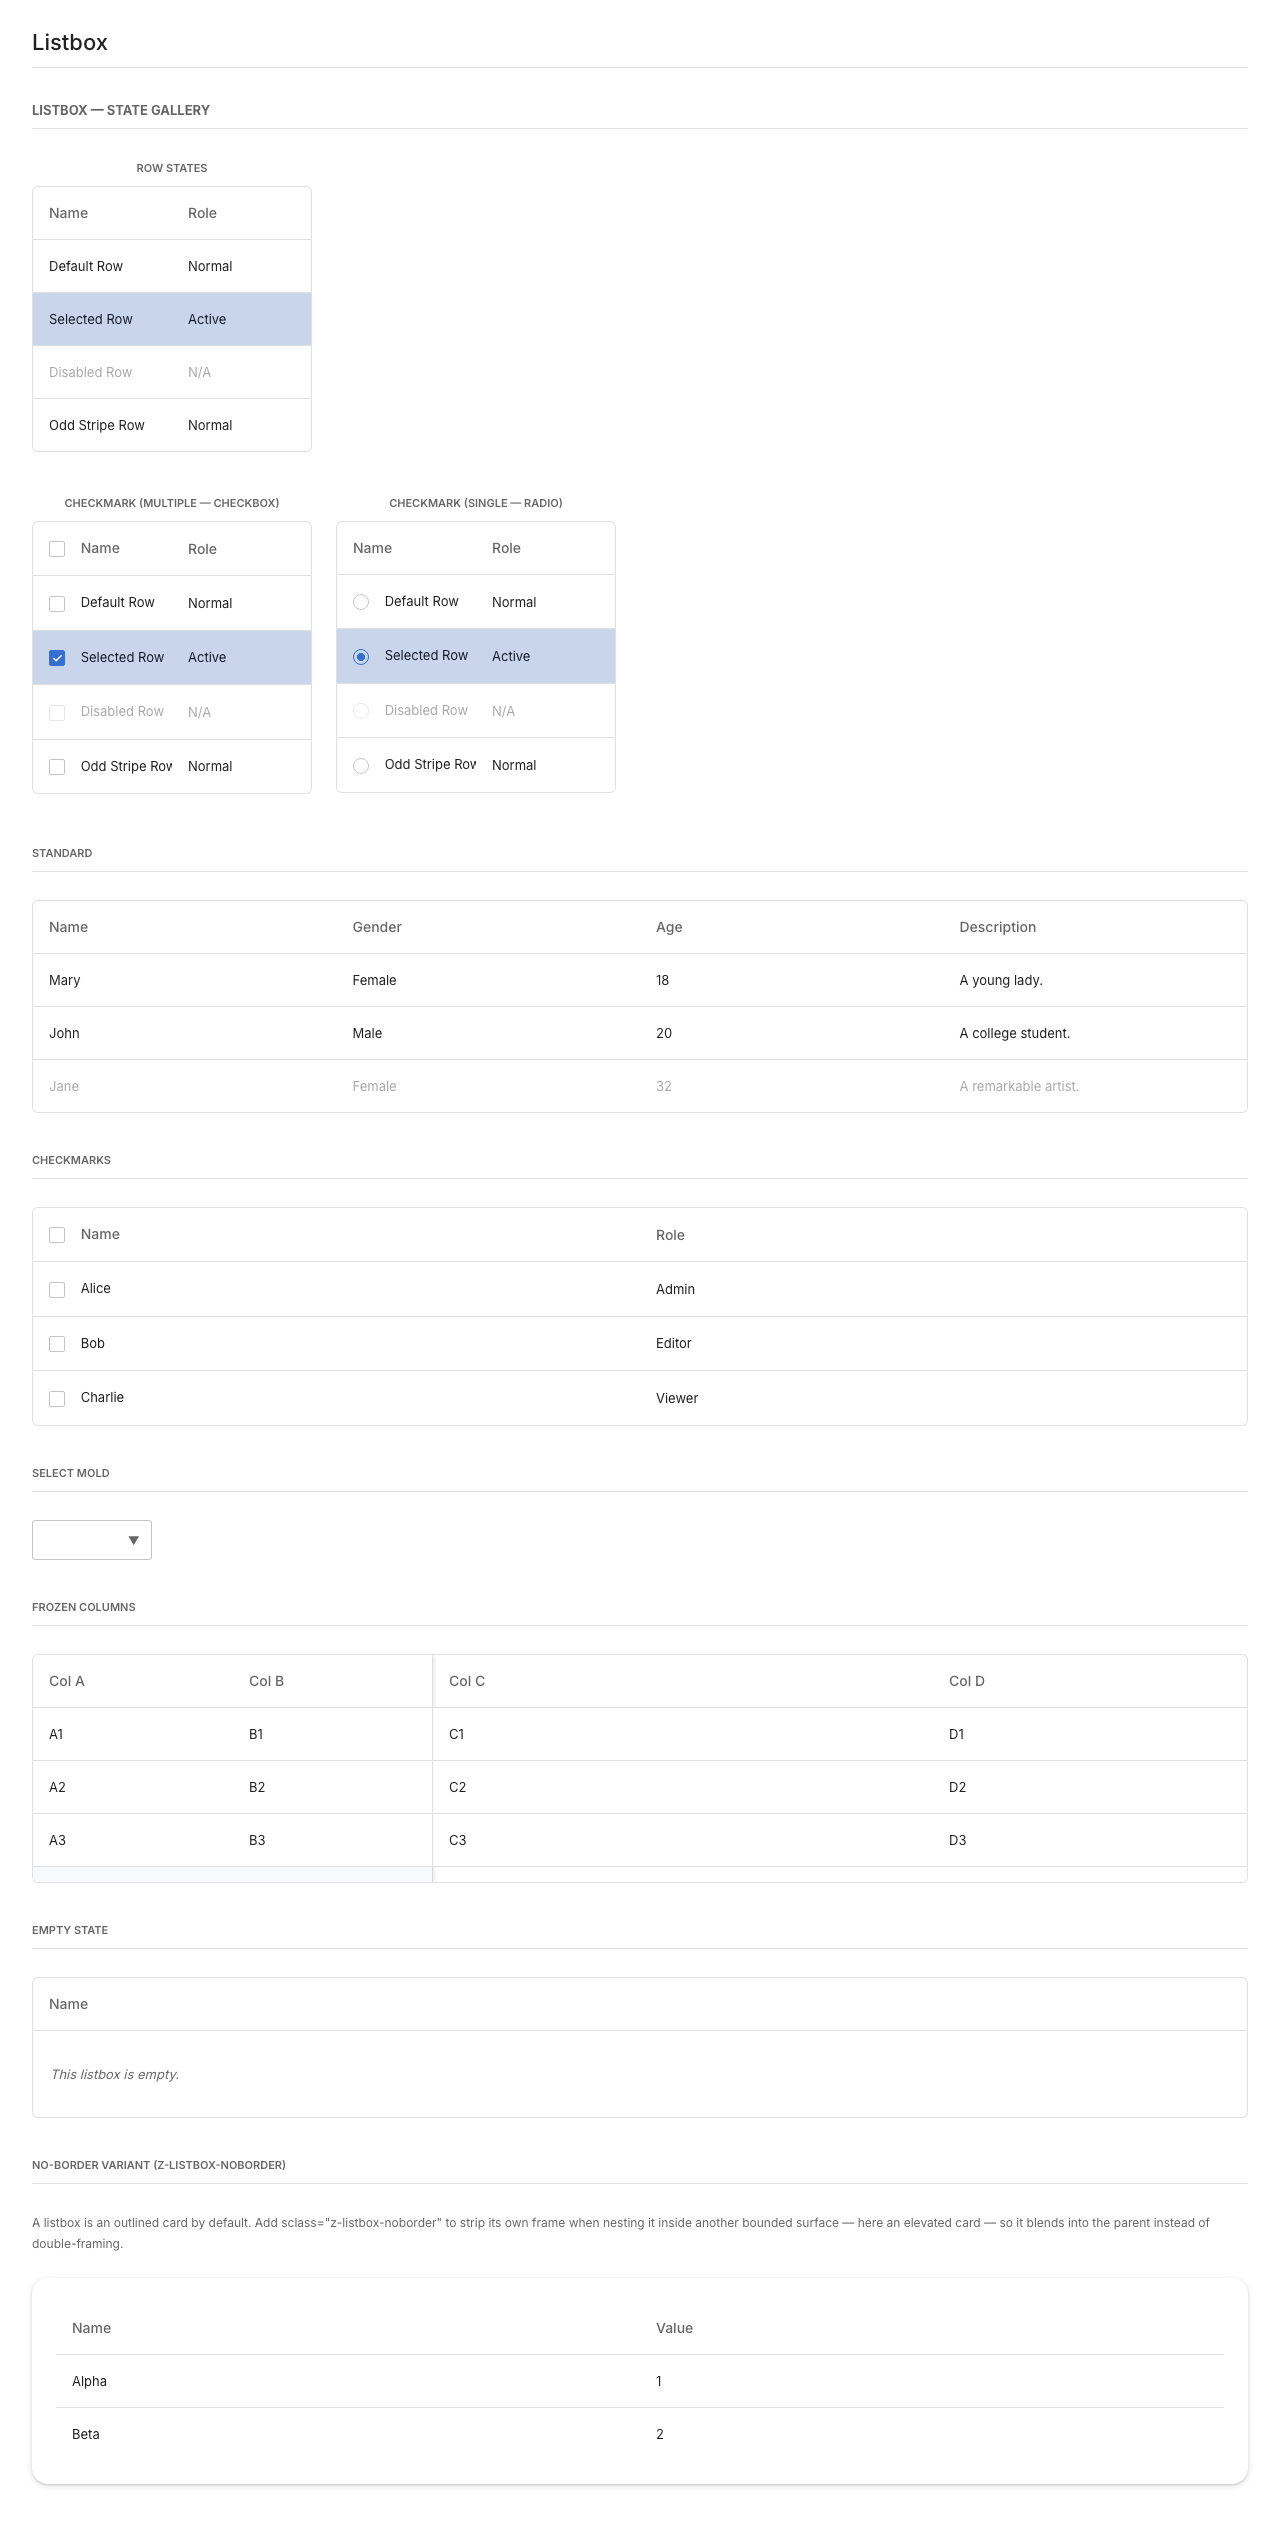
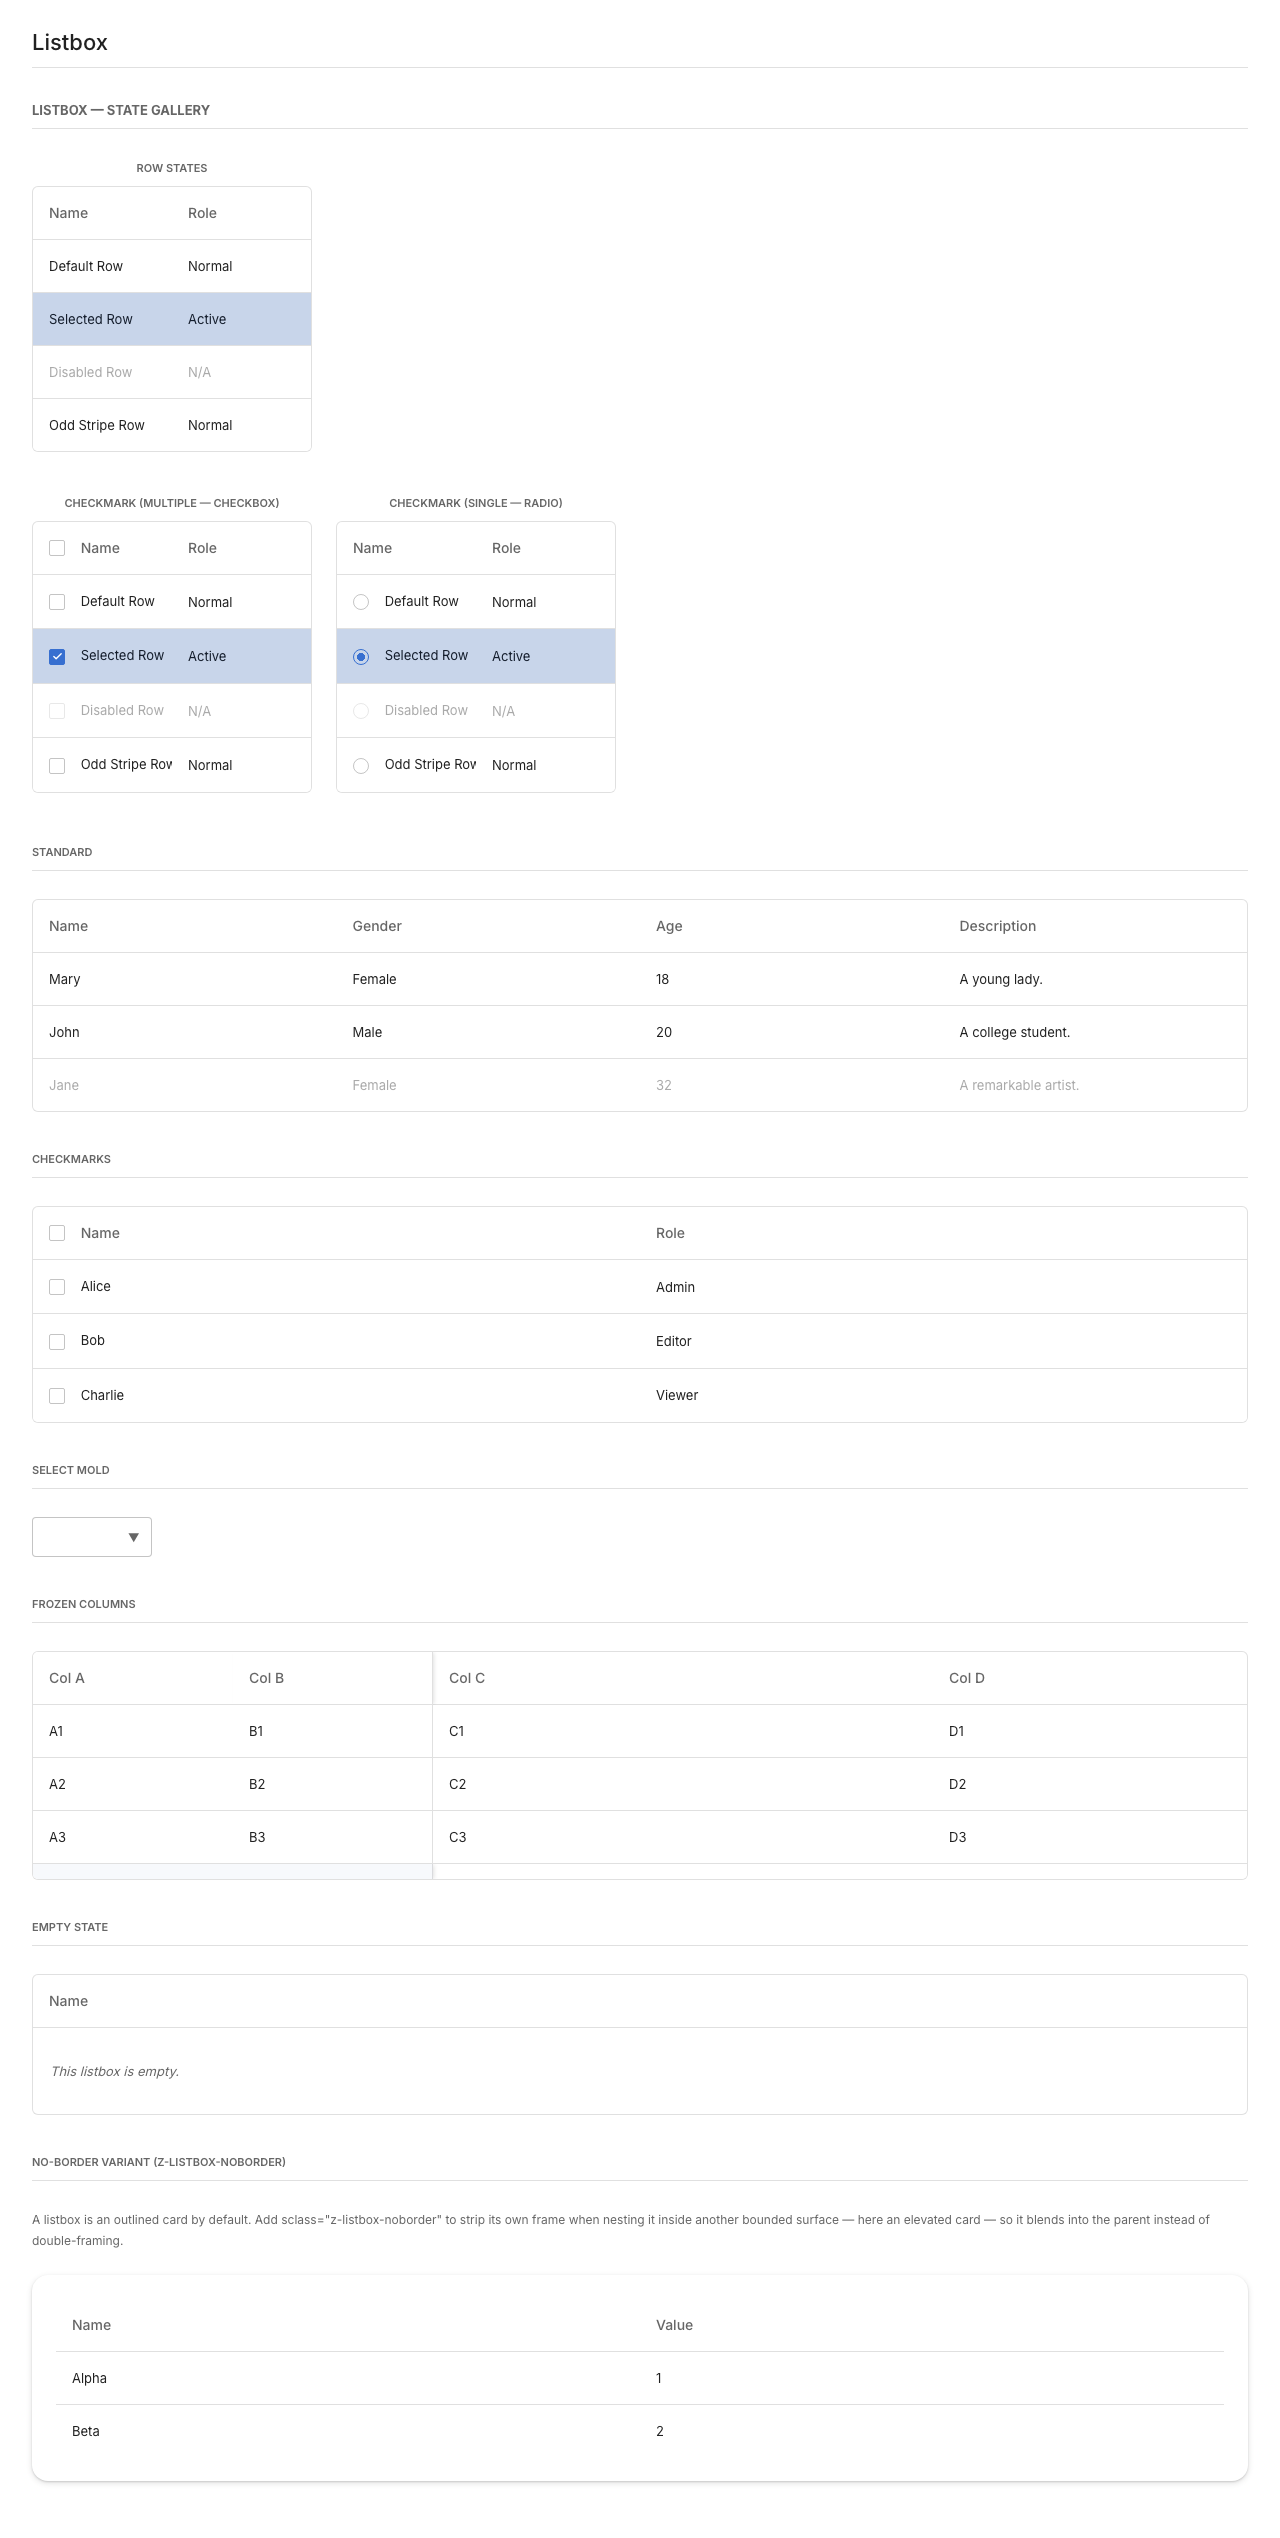
ZK-6112: pin the Listbox select-all header box to the label line so the header is as tall as a Grid header (zkdemo NS10 D16)

diff --git a/zul/src/main/resources/web/js/zul/sel/css/listbox.css b/zul/src/main/resources/web/js/zul/sel/css/listbox.css
@@ -533,10 +533,16 @@
    overflowed the ~32px content box and `.z-listheader-content` painted its ellipsis right of the
    box. As an inline-block capped at the content width it fits, and the icon keeps its x.
    zkmax tablet/_mesh.css leaves this span's width and height alone, so the inline-block cap
-   is not widened to the 24px touch box there. */
+   is not widened to the 24px touch box there.
+   The baseline-aligned inline-block also grew the header's line box (54.17px against the 53px of a
+   Grid header; on a tablet the 24px font-size of that rule pushes the 16px glyph further down), which
+   moved the label of this header below the other labels of the row. Pinning the span to the label's
+   line height and the top of the line box keeps the header as tall as a Grid header. */
 .z-listheader-checkable {
     display: inline-block;
     max-width: 100%;
+    vertical-align: top;
+    height: var(--zk-typescale-label-large-line-height);
 }
 
 /* Narrow image/icon header column — same squeeze as the checkable column. A
